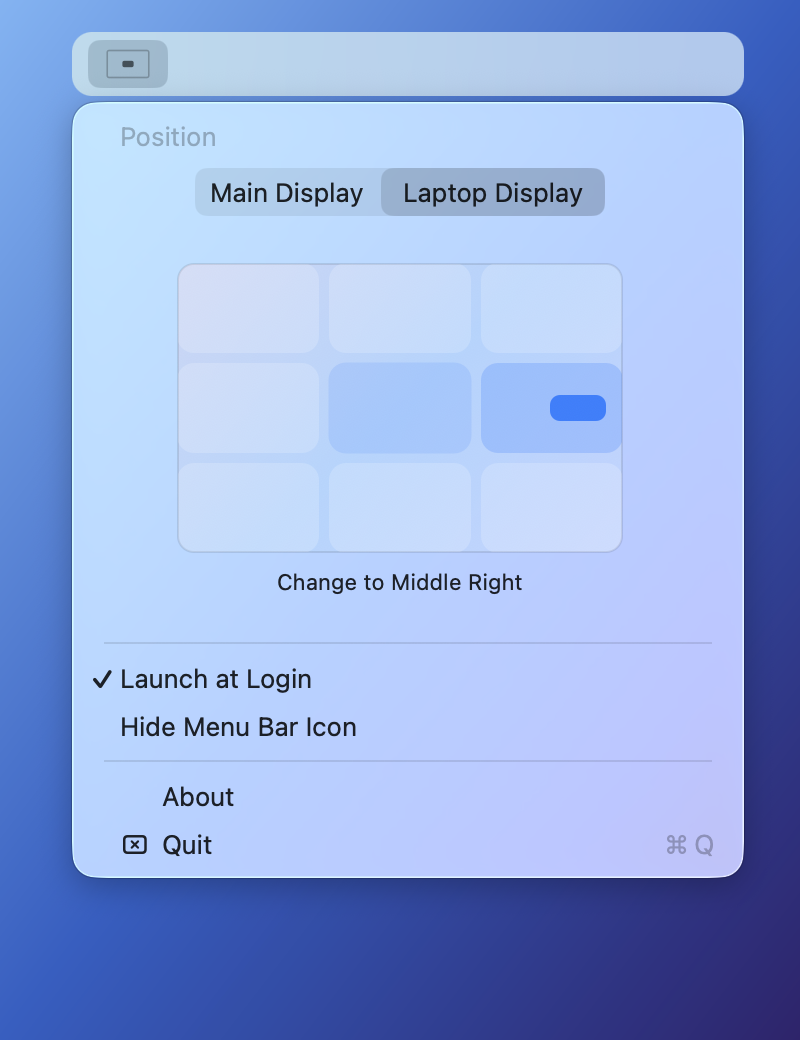
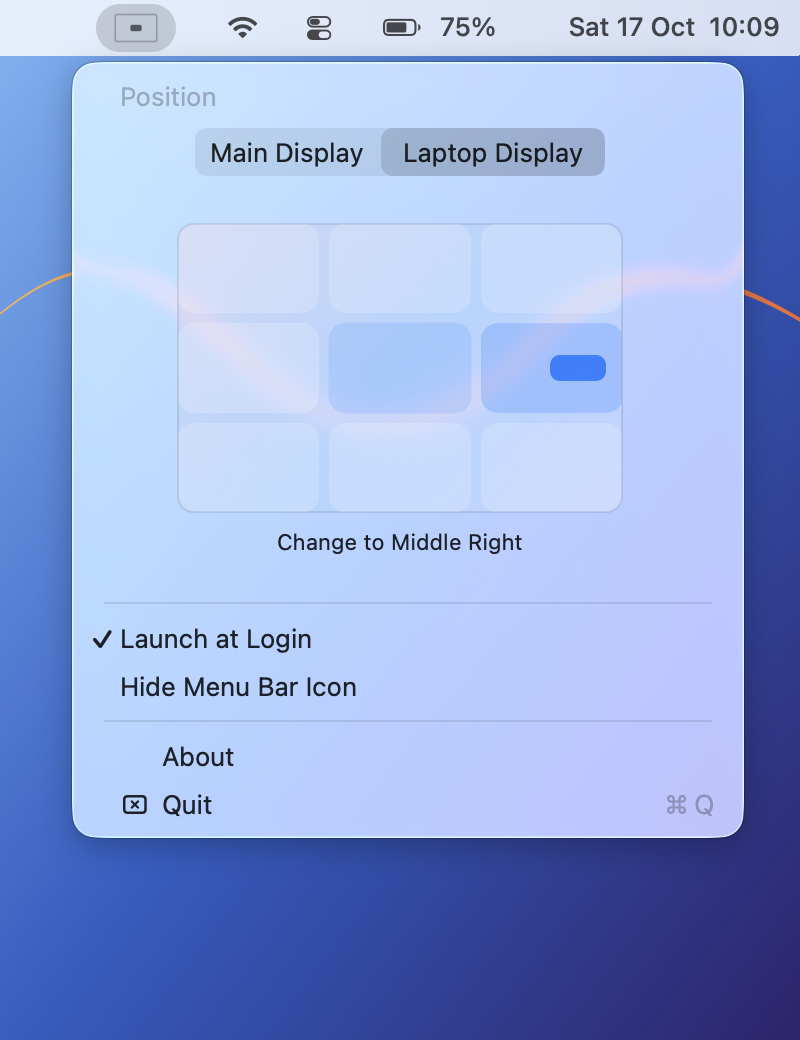
feat: improve screenshot menu bar and translucency

diff --git a/src/NotifyPointScreenshotPreview.swift b/src/NotifyPointScreenshotPreview.swift
@@ -76,26 +76,38 @@ final class NotifyPointScreenshotPreview {
         backdrop.orderFrontRegardless()
         background = backdrop
 
-        let headerFrame = CGRect(x: frame.minX + 36, y: frame.maxY - 48, width: 328, height: 32)
+        let headerFrame = CGRect(x: frame.minX, y: frame.maxY - 28, width: frame.width, height: 28)
         let headerWindow = makeWindow(frame: headerFrame)
         headerWindow.isOpaque = false
         headerWindow.backgroundColor = .clear
         let glass = NSVisualEffectView(frame: CGRect(origin: .zero, size: headerFrame.size))
-        glass.material = .menu
+        glass.material = .headerView
         glass.blendingMode = .behindWindow
         glass.state = .active
-        glass.wantsLayer = true
-        glass.layer?.cornerRadius = 10
-        glass.layer?.masksToBounds = true
-        glass.autoresizingMask = [.width]
-        let icon = NSButton(frame: CGRect(x: 8, y: 1, width: 40, height: 30))
+        let icon = NSButton(frame: CGRect(x: 48, y: 2, width: 40, height: 24))
         icon.image = button.image
         icon.imagePosition = .imageOnly
-        icon.bezelStyle = .recessed
-        icon.setButtonType(.pushOnPushOff)
-        icon.state = .on
+        icon.isBordered = false
+        icon.wantsLayer = true
+        icon.layer?.cornerRadius = 12
+        icon.layer?.backgroundColor = NSColor.labelColor.withAlphaComponent(0.15).cgColor
         icon.contentTintColor = .labelColor
         glass.addSubview(icon)
+
+        for (symbol, x, width) in [("wifi", 111.0, 20.0), ("switch.2", 150.0, 20.0), ("battery.75percent", 187.0, 27.0)] {
+            let image = NSImageView(frame: CGRect(x: x, y: 6, width: width, height: 16))
+            image.image = NSImage(systemSymbolName: symbol, accessibilityDescription: nil)
+            image.contentTintColor = .labelColor
+            glass.addSubview(image)
+        }
+        for (text, x, width) in [("75%", 218.0, 32.0), ("Sat 17 Oct  10:09", 264.0, 128.0)] {
+            let label = NSTextField(labelWithString: text)
+            label.frame = CGRect(x: x, y: 5, width: width, height: 18)
+            label.font = .systemFont(ofSize: 13, weight: .medium)
+            label.textColor = .labelColor
+            label.alignment = .right
+            glass.addSubview(label)
+        }
         headerWindow.contentView = glass
         headerWindow.orderFrontRegardless()
         header = headerWindow
@@ -128,11 +140,6 @@ final class NotifyPointScreenshotPreview {
                 return
             }
             let menuFrame = window.frame
-            if self.header?.frame.width != menuFrame.width {
-                self.header?.setFrame(CGRect(x: menuFrame.minX, y: frame.maxY - 48,
-                                            width: menuFrame.width, height: 32), display: true)
-                return
-            }
             guard frame.insetBy(dx: 12, dy: 12).contains(menuFrame) else {
                 self.fail("The native menu does not fit inside the fixed capture canvas.")
                 return
@@ -149,7 +156,7 @@ final class NotifyPointScreenshotPreview {
         RunLoop.main.add(poll, forMode: .common)
         RunLoop.main.add(poll, forMode: .eventTracking)
         DispatchQueue.main.async { [weak self] in
-            menu.popUp(positioning: nil, at: CGPoint(x: frame.minX + 36, y: frame.maxY - 56), in: nil)
+            menu.popUp(positioning: nil, at: CGPoint(x: frame.minX + 36, y: frame.maxY - 36), in: nil)
             if let self, self.timer != nil {
                 self.fail("The menu closed before capture completed. Please leave the mouse and keyboard idle during capture.")
             }

diff --git a/scripts/screenshots/CaptureScreenshots.java b/scripts/screenshots/CaptureScreenshots.java
@@ -86,7 +86,8 @@ public class CaptureScreenshots {
         String name = (scene.equals("position") ? "menu-screenshot" : "menu-display-screenshot")
             + (appearance.equals("dark") ? "-dark" : "") + ".png";
         Path directory = Files.createDirectory(temporary.resolve(scene + "-" + appearance));
-        Files.copy(root.resolve("scripts/screenshots/background.png"), directory.resolve("background.png"));
+        String background = appearance.equals("dark") ? "background-dark.png" : "background.png";
+        Files.copy(root.resolve("scripts/screenshots/" + background), directory.resolve("background.png"));
         Files.writeString(directory.resolve("settings.json"), """
             {"debugMode":false,"notificationPosition":"deadCenter","notificationDisplayTarget":"%s"}
             """.formatted(scene.equals("display") ? "builtInDisplay" : "mainDisplay"));

diff --git a/CONTRIBUTING.md b/CONTRIBUTING.md
@@ -150,9 +150,11 @@ are preserved.
 
 Each scene selects Middle and captures light and dark appearances. The position
 scene hovers Top Left; the display scene hovers Middle Right. Captures use a fixed
-blue background and a controlled header containing the app's position icon,
-excluding personal menu bar items. The header is a preview presentation, while
-the menu and pickers are the same AppKit controls used by the app.
+blue background with a tapered orange curve passing behind the position picker.
+Dark captures use a darker blue background and warmer orange. A full-width menu
+bar at the top contains the app's position icon, Wi-Fi, Control Centre, a fixed
+75% battery and a fixed date/clock. These preview items exclude personal menu bar
+content; the menu and pickers are the same AppKit controls used by the app.
 
 Outputs are 800 x 1040 PNGs:
 
@@ -187,10 +189,11 @@ mode separately on a laptop. This is a local documentation workflow; real
 notification screenshots remain part of the smoke test below, and unattended CI
 capture is outside its scope.
 
-The background PNG is checked in. To regenerate it from its source:
+The light and dark background PNGs are checked in. To regenerate them from source:
 
 ```bash
 rsvg-convert --output=scripts/screenshots/background.png scripts/screenshots/background.svg
+rsvg-convert --output=scripts/screenshots/background-dark.png scripts/screenshots/background-dark.svg
 ```
 
 ## Local smoke test
